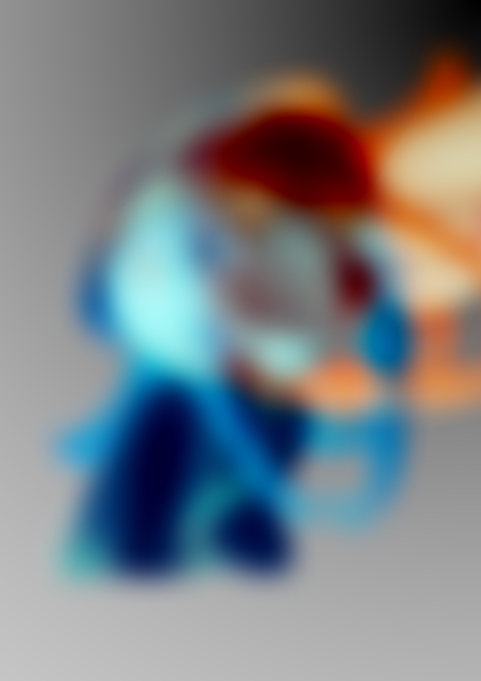
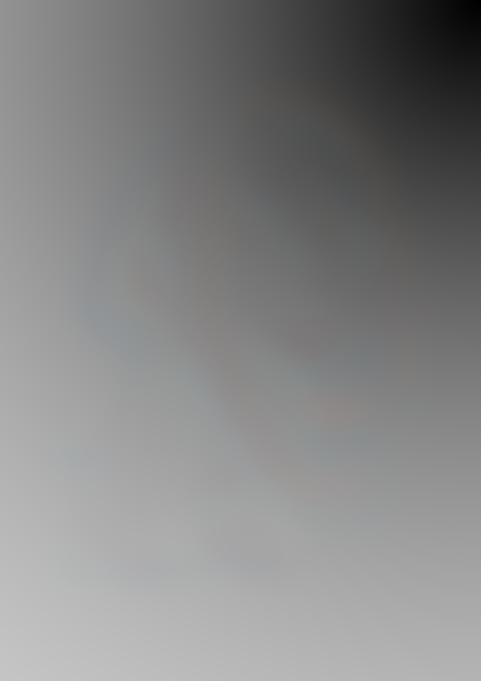
gray cast over image, can sorta see color separation

diff --git a/lighting.py b/lighting.py
@@ -1,6 +1,7 @@
 import wave
 import cv2
 import numpy as np
+from tqdm import tqdm
 
 # channel intensity normalization (N)
 # Input: rgb image [0, 255] (height, width, channels)
@@ -21,12 +22,6 @@ def computeNormalizedChannelIntensity(input):
     max_c = np.array([blurred_img[:, :, 0].max(), blurred_img[:, :, 1].max(), blurred_img[:, :, 2].max()])
     min_c = np.array([blurred_img[:, :, 0].min(), blurred_img[:, :, 1].min(), blurred_img[:, :, 2].min()])
 
-    # print(max_c)
-    # print(min_c)
-
-    # max_c = np.max(max_c)
-    # min_c = np.min(min_c)
-
     normalized_c = (blurred_img - min_c) / (max_c - min_c).astype(np.float64)
     # normalized_c = blurred_img / max_c
 
@@ -34,8 +29,6 @@ def computeNormalizedChannelIntensity(input):
 
 
 def bilinear_interpolate(im, x, y, width, height):
-    
-    # Added to handle boundary cases properly
     epsilon = 1e-5
     if (x < 0): x = epsilon
     if (y < 0): y = epsilon
@@ -47,15 +40,6 @@ def bilinear_interpolate(im, x, y, width, height):
     y0 = np.floor(y).astype(int)
     y1 = y0 + 1
 
-    # x0 = np.clip(x0, 0, width-1)
-    # x1 = np.clip(x1, 0, width-1)
-    # y0 = np.clip(y0, 0, height-1)
-    # y1 = np.clip(y1, 0, height-1)
-
-    # print(x, y)
-    # print(x0, y0)
-    # print(x1, y1)
-
     Ia = im[ y0, x0 ]
     Ib = im[ y1, x0 ]
     Ic = im[ y0, x1 ]
@@ -65,9 +49,6 @@ def bilinear_interpolate(im, x, y, width, height):
     wb = (x1-x) * (y-y0)
     wc = (x-x0) * (y1-y)
     wd = (x-x0) * (y-y0)
-
-    # print("weights: ", wa, wb, wc, wd)
-
     return wa*Ia + wb*Ib + wc*Ic + wd*Id
 
 # coarse lighting effect
@@ -98,52 +79,27 @@ def computeCoarseLightingEffect(N):
         dists.append(np.sqrt(np.square(light_loc - corner)))
     max_dist = np.max(dists)
    
-    delta = float(1.0)
+    delta = float(10)
 
     p_x, p_y = np.meshgrid(np.arange(width), np.arange(height))
     p_d = np.sqrt((p_x - l_x)**2 + (p_y - l_y)**2)
 
     light_dir_p_d = p_d / max_dist
 
-    # delta = delta / max_dist
-
-    # Trying
-    # l_x = (2 * l_x / float(width)) - 1
-    # l_y = (2 * l_y / float(height)) - 1
-    # print(l_x, l_y)
-
-    # p_x, p_y = np.meshgrid((2 * np.arange(width) / float(width)) - 1, (2 * np.arange(height) / float(height)) - 1)
-    # p_d = np.sqrt((p_x - l_x)**2 + (p_y - l_y)**2)
-    
-    
     sin_theta = np.divide(p_y - l_y, p_d)
     cos_theta = np.divide(p_x - l_x, p_d)
 
-    # If Light is above image, need to replace sin and cos at point
-    # Exact direction shouldn't matter, because infinite choices
-    # Other sin and cos will be inf or cause nan later on
     if (l_x >= 0 and l_x < width and  l_y >= 0 and l_y < height):
         sin_theta[l_y, l_x] = 0
         cos_theta[l_y, l_x] = 1
     
-    # orig_l_x = 475
-    # orig_l_y = 50
-    # if (orig_l_x >= 0 and orig_l_x < width and  orig_l_y >= 0 and orig_l_y < height):
-    #     sin_theta[orig_l_y, orig_l_x] = 0
-    #     cos_theta[orig_l_y, orig_l_x] = 1
-
-    # print(sin_theta[l_y])
-    # print(cos_theta[l_y])
-
+    counter = 0
     E = np.empty(N.shape)
-    for y in range(height):
+    for y in tqdm(range(height)):
         for x in range(width):
             for c in range(3):
-                # light_direction = np.array([l_z, p_d[y, x]])
                 light_direction = np.array([l_z, light_dir_p_d[y, x]])
-                # print(light_direction)
-                light_direction = light_direction / np.sqrt(np.sum(light_direction**2))
-                # print(light_direction)
+                light_direction = light_direction / np.linalg.norm(light_direction)
                 
                 # Represent origin point on N and interpolated point offset by delta
                 n1 = N[
@@ -153,63 +109,30 @@ def computeCoarseLightingEffect(N):
 
                 x_interp = l_x + cos_theta[y, x] * (p_d[y, x] + delta)
                 y_interp = l_y + sin_theta[y, x] * (p_d[y, x] + delta) 
-                
-                # print("x: ", x)
-                # print("y: ", y)
-                # print("x interp: ", x_interp)
-                # print("y interp: ", y_interp)
 
                 n2 = N[
-                    np.clip(round(x_interp), 0, height-1),
-                    np.clip(round(y_interp), 0, width-1), 
+                    np.clip(round(y_interp), 0, height-1),
+                    np.clip(round(x_interp), 0, width-1), 
                     c]
 
-                # n1 = N[
-                #     round(((l_y + sin_theta[y, x] * p_d[y, x]) + 1) * height / float(2)),
-                #     round(((l_x + cos_theta[y, x] * p_d[y, x]) + 1) * width / float(2)), 
-                #     c]
-
-                # x_interp = ((l_x + cos_theta[y, x] * (p_d[y, x] + delta)) + 1) * width / float(2)
-                # y_interp = ((l_y + sin_theta[y, x] * (p_d[y, x] + delta)) + 1) * height / float(2)
-
                 # n2 = bilinear_interpolate(N[:, :, c], x_interp, y_interp, width, height)
-                
-                # print(n1)
-                # print(n2)
-                # exit(0)
+
+                # print("y: ", y)
+                # print("x: ", x)
+                # print("y_interp: ", y_interp)
+                # print("x_interp: ", x_interp)
+                # print("n1: ", n1)
+                # print("n2: ", n2)
 
                 wave_direction = np.array([n2 - n1, delta])
                 # print(wave_direction)
-                wave_direction = wave_direction / np.sqrt(np.sum(wave_direction**2))
+                wave_direction = wave_direction / np.linalg.norm(wave_direction)
                 # print(wave_direction)
-
-                # if (y == l_y and x == 250):
-                #                 print(x_interp, y_interp)
-                #                 print(n1)
-                #                 print(n2)
-                #                 print(p_d[y, x])
-                #                 print(l_z)
-                #                 print(light_direction)
-                #                 print(wave_direction)
-                # print(wave_direction)
-                # print(light_direction)
 
                 E[y, x, c] = np.dot(wave_direction, light_direction)
                 # print(E[y, x, c])
-                # exit(0)
-                # if ((E[y, x, c] < 0)):
-                    # print("bad1", E[y, x, c])
-                    # exit()
-                # if ((E[y, x, c] > 1)):
-                    # print("bad2", E[y, x, c])
-                    # exit()
-                # if (x == 0 and y == 0):
-                #     print(n1)
-                #     print(n2)
-                #     print(N[0:3, 0:3, 0])
-                #     print(E[y, x, c])
-                # exit()
 
+                counter += 1
     E = np.clip(E, 0, 1)
     return E
 
